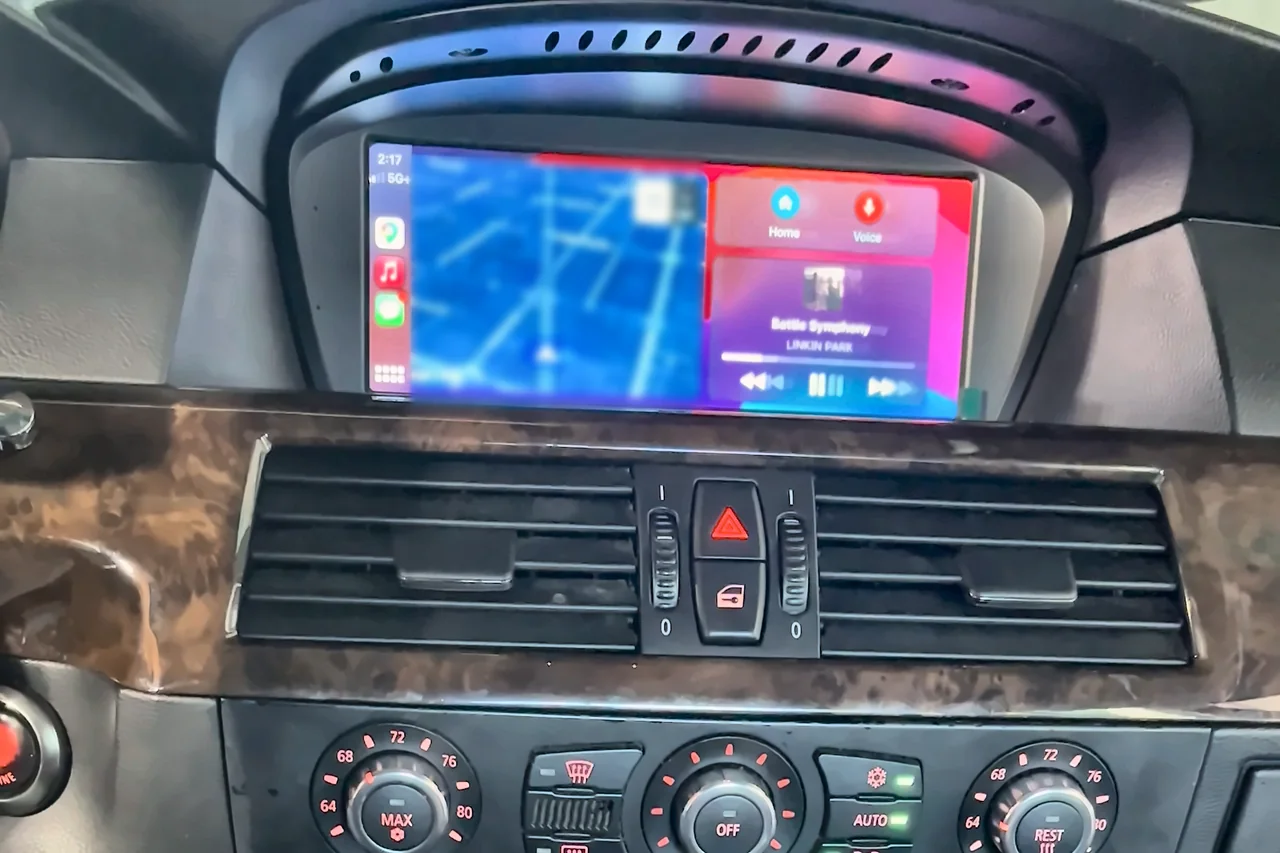
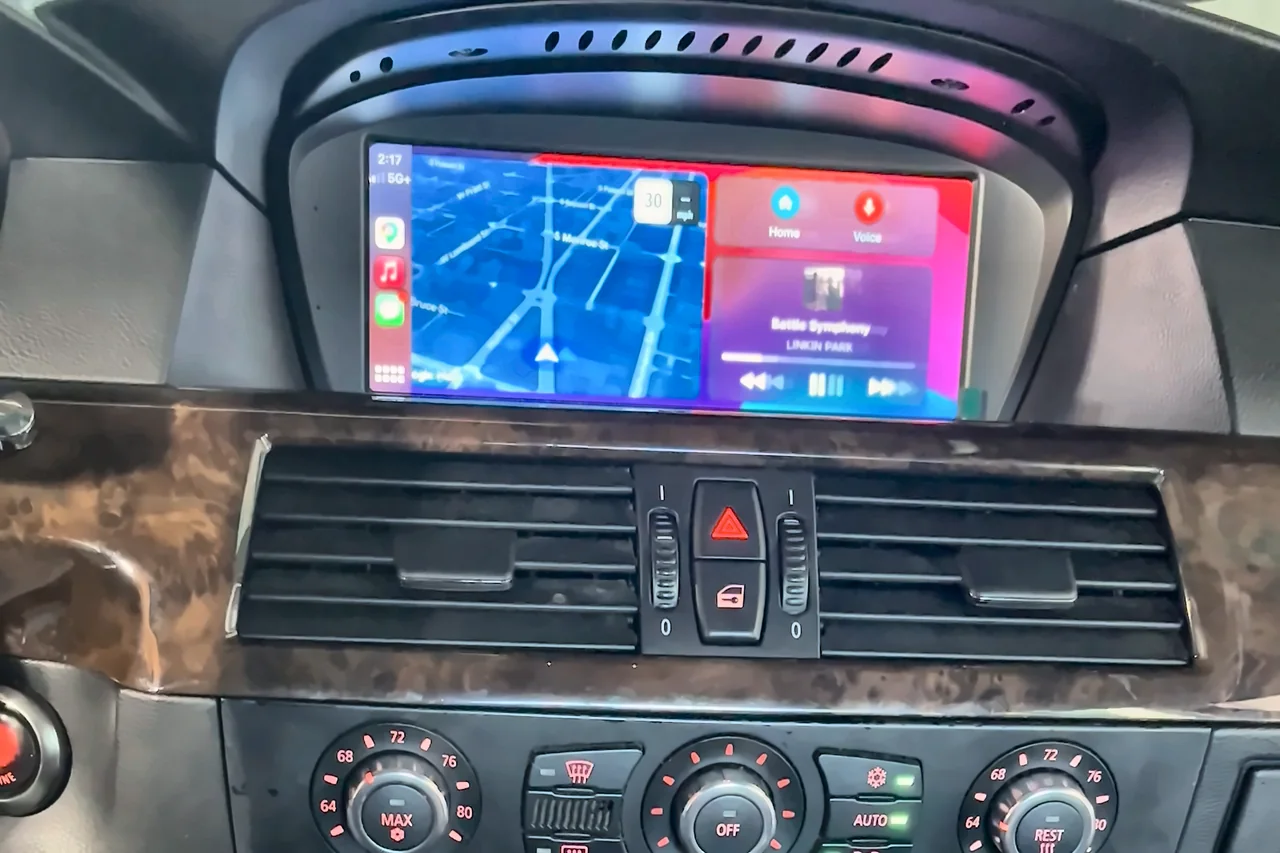
Preview: show the E60 CarPlay map unblurred
Claude-Session: https://claude.ai/code/session_01YA1ZGsTeUYZYBCBbqpuyre

Changed region(s): [[0.3125, 0.1829, 0.5625, 0.4877]]

diff --git a/index.html b/index.html
@@ -96,7 +96,7 @@
     <div class="ig-compare" data-show="after">
       <div class="ig-toggle" role="group" aria-label="Show factory menu or CarPlay"><button type="button" data-ig-show="before" aria-pressed="false">Factory menu</button><button type="button" data-ig-show="after" aria-pressed="true">CarPlay</button></div>
       <figure class="ig-shot" data-ig-shot="before" style="--pos:50% 30%"><img src="assets/installations/bmw-550i-e60-before-1280.webp" srcset="assets/installations/bmw-550i-e60-before-640.webp 640w, assets/installations/bmw-550i-e60-before-1280.webp 1280w" sizes="(max-width: 760px) calc(100vw - 40px), 460px" width="1280" height="853" loading="lazy" decoding="async" alt="BMW 550i E60 dashboard showing the original BMW CCC menu"><figcaption>Factory menu</figcaption></figure>
-      <figure class="ig-shot" data-ig-shot="after" style="--pos:50% 30%"><img src="assets/installations/bmw-550i-e60-after-1280.webp" srcset="assets/installations/bmw-550i-e60-after-640.webp 640w, assets/installations/bmw-550i-e60-after-1280.webp 1280w" sizes="(max-width: 760px) calc(100vw - 40px), 460px" width="1280" height="853" loading="lazy" decoding="async" alt="The same BMW 550i dashboard running Apple CarPlay maps and music"><figcaption>CarPlay</figcaption></figure>
+      <figure class="ig-shot" data-ig-shot="after" style="--pos:50% 30%"><img src="assets/installations/bmw-550i-e60-after-1280.webp?v=2" srcset="assets/installations/bmw-550i-e60-after-640.webp?v=2 640w, assets/installations/bmw-550i-e60-after-1280.webp?v=2 1280w" sizes="(max-width: 760px) calc(100vw - 40px), 460px" width="1280" height="853" loading="lazy" decoding="async" alt="The same BMW 550i dashboard running Apple CarPlay maps and music"><figcaption>CarPlay</figcaption></figure>
     </div>
     <ul class="ig-keep" aria-label="What you keep"><li>Factory CCC menus</li><li>iDrive knob</li><li>Apple CarPlay with touch</li></ul>
     <div class="ig-actions"><a class="btn" href="#owner-check" data-form-jump>Check if my car fits</a><button type="button" class="ig-next" data-ig-next>Next install <span aria-hidden="true">→</span></button></div>
